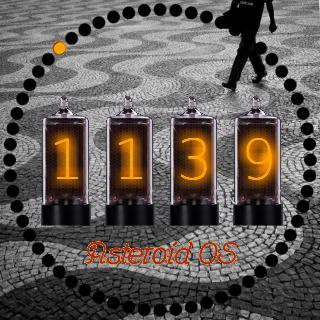
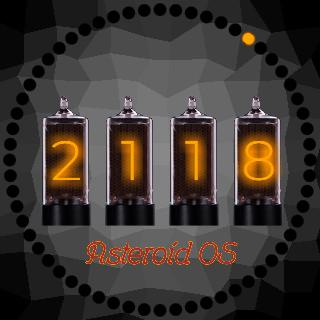
Correct square thumbnails to be taken on Flatmesh bg. Correct font definition in decimal-time and nixie-delight

diff --git a/decimal-time/usr/share/asteroid-launcher/watchfaces/decimal-time.qml b/decimal-time/usr/share/asteroid-launcher/watchfaces/decimal-time.qml
@@ -90,6 +90,7 @@ Item {
             font.pixelSize: parent.height*0.08
             font.family: "CPMono_v07"
             color: "lightblue"
+            font.styleName: "Plain"
             id: hourLabel
             antialiasing : true
             opacity: displayAmbient ? 0.3 : 0.6
@@ -114,6 +115,7 @@ Item {
         font.pixelSize: parent.height*0.06
         font.family: "CPMono_v07"
         color: "white"
+        font.styleName: "Plain"
         visible: !displayAmbient
         horizontalAlignment: Text.AlignHCenter
         anchors {
@@ -133,6 +135,7 @@ Item {
         font.pixelSize: parent.height*0.06
         font.family: "CPMono_v07"
         color: "white"
+        font.styleName: "Plain"
         horizontalAlignment: Text.AlignHCenter
         anchors {
             centerIn: parent
@@ -147,10 +150,12 @@ Item {
         visible: !displayAmbient
         font.pixelSize: parent.height*0.15
         font.family: "CPMono_v07"
+        font.styleName: "Plain"
         color: "white"
         horizontalAlignment: Text.AlignHCenter
         anchors {
             centerIn: parent
+            verticalCenterOffset: parent.width*0.016
         }
         textFormat: Text.RichText
         text: getMetricHours(wallClock.time).toPrecision(5)
@@ -160,6 +165,7 @@ Item {
     Image {
         id: logoAsteroid
         z: 3
+        antialiasing: true
         opacity: displayAmbient ? 0.6 : 1.0
         source: "../watchface-img/asteroid-logo.svg"
         width: parent.width/12

diff --git a/nixie-delight/usr/share/asteroid-launcher/watchfaces/nixie-delight.qml b/nixie-delight/usr/share/asteroid-launcher/watchfaces/nixie-delight.qml
@@ -52,8 +52,8 @@ Item {
                 id: digit
                 anchors.centerIn: parent
                 font.pixelSize: nixieBackground.height*0.35 * sizefactor
-                font.family: "Montserrat-Regular"
-                font.weight: Font.ExtraLight
+                font.family: "Montserrat"
+                font.weight: Font.Light
                 color: "orange"
                 visible: !displayAmbient
                 horizontalAlignment: Text.AlignHCenter
